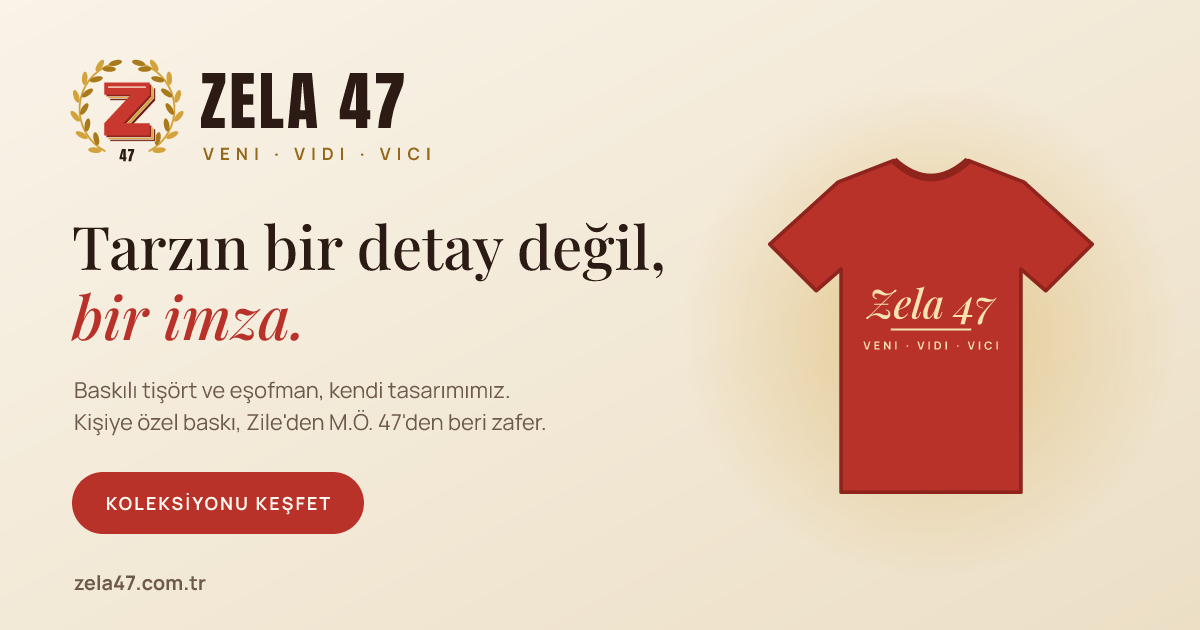
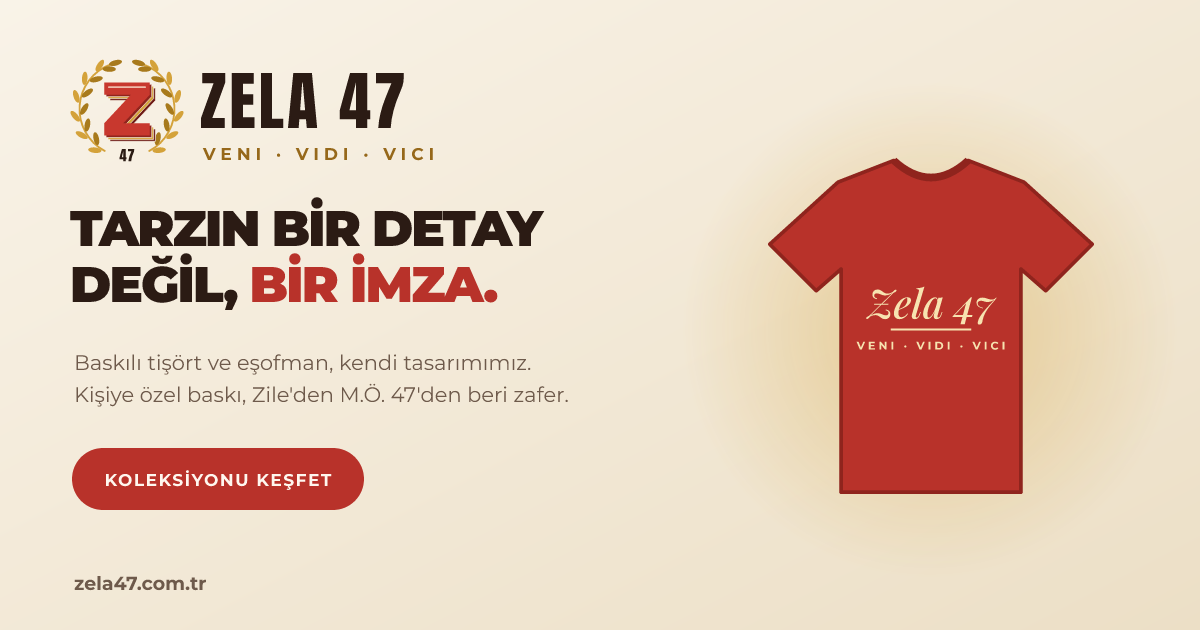
Paylaşım görselini Montserrat ile yeniden üret

diff --git a/CLAUDE.md b/CLAUDE.md
@@ -74,9 +74,9 @@ Marka adı **ZELA 47** (kullanıcı seçti; eski adı "The Expendables", film ad
 
 - Ödeme formu demodur, gerçek ödeme almaz. Gerçek ödeme için iyzico / PayTR gibi bir sağlayıcı ve sunucu gerekir.
 - KVKK, iade, mesafeli satış, kullanım koşulları ve gizlilik metinleri genel taslaktır. Yayından önce bir hukukçuya kontrol ettirilmeli.
-- Paylaşım görseli ve ikonlar Zafer Alayı paletine göre yeniden üretildi (30.10.2026). `favicon.svg` krem kare içinde çelenkli kırmızı Z; `icon-512.png` ve `apple-touch-icon.png` doğrudan ondan çizilir. Paylaşım görseli (`public/og-image.png`, 1200×630) SVG'den `@resvg/resvg-js` ile üretildi (proje dışında, geçici klasörde; yazı tipleri Google Fonts'tan TTF). İçerik: krem zemin, çelenk logo, Anton "ZELA 47", altın "VENI · VIDI · VICI", Playfair "Tarzın bir detay değil," + kırmızı italik "bir imza.", alt yazı, kırmızı "Koleksiyonu Keşfet" butonu, `zela47.com.tr`, sağda altın hale içinde kırmızı "Zela 47" baskılı tişört. Alan adı ya da logo değişirse yeniden üretilmeli.
+- Paylaşım görseli ve ikonlar Zafer Alayı paletine göre yeniden üretildi (30.10.2026). `favicon.svg` krem kare içinde çelenkli kırmızı Z; `icon-512.png` ve `apple-touch-icon.png` doğrudan ondan çizilir. Paylaşım görseli (`public/og-image.png`, 1200×630) SVG'den `@resvg/resvg-js` ile üretildi (proje dışında, geçici klasörde; yazı tipleri Google Fonts'tan TTF). İçerik: krem zemin, çelenk logo, Anton "ZELA 47", altın Montserrat "VENI · VIDI · VICI", Montserrat 900 büyük harf "TARZIN BİR DETAY / DEĞİL, BİR İMZA." ("BİR İMZA." kırmızı), Montserrat alt yazı, kırmızı "Koleksiyonu Keşfet" butonu, `zela47.com.tr`, sağda altın hale içinde kırmızı "Zela 47" baskılı tişört. Alan adı ya da logo değişirse yeniden üretilmeli.
 - Kullanıcının önceliği yayına almak değil, siteyi geliştirmek.
-- Yazı tipi 02.11.2026'da kullanıcı isteğiyle Montserrat'a geçti (önceki onaylı seçim Playfair Display + Manrope idi; önce Cormorant Garamond denendi, beğenilmedi). Paylaşım görseli hâlâ eski yazı tipleriyle (Playfair + Manrope); istenirse Montserrat ile yeniden üretilmeli.
+- Yazı tipi 02.11.2026'da kullanıcı isteğiyle Montserrat'a geçti (önceki onaylı seçim Playfair Display + Manrope idi; önce Cormorant Garamond denendi, beğenilmedi). Paylaşım görseli de 02.11.2026'da Montserrat ile yeniden üretildi.
 - Manken modelleri CC BY 4.0: ticari kullanım serbest, tek şart yazara (DNC44) atıf. Önce three.js'in "Xbot" modeli kullanılmıştı, kullanıcı beğenmedi. Ready Player Me 31 Ocak 2026'da kapandı. Başka bir model istenirse aynı kemik adlarına (Mixamo iskeleti) sahip bir .glb ile değiştirmek en kolayı
 - Hallmark tasarım eklentisi (github.com/Nutlope/hallmark, MIT, v2.0.0) projeye kuruldu: `.claude/skills/hallmark`. Yalnızca adıyla çağrılınca çalışır (`/hallmark audit <yol>`, `/hallmark redesign <yol>`). Denetim çıktıları `.hallmark/` klasörüne yazılır, GitHub'a gönderilmez. Tarayıcı kontrolü için `puppeteer-core` gerekir; projeye eklenmedi, geçici klasöre kurulup `HALLMARK_PUPPETEER` ile gösterildi. 30.10.2026'da ilk denetim yapıldı (ana sayfa, Hakkımızda, İletişim): 119 FAIL, 133 REFLEX, 17 WARN. Hallmark'ın kusur saydığı bazı şeyler (başlıkta italik renkli kelime, büyük harfli küçük etiketler) kullanıcının onayladığı marka tercihleri; bunlara kullanıcı sormadan dokunulmamalı. Kullanıcının tek tek onayladığı düzeltmeler yapıldı (119 → 49 FAIL): form kutusu kenarı `--field-edge`, klavye çerçevesi (`:focus-visible`), pasif buton görünümü, `100svh`, `overflow-x: clip`, lisans yazısı 12 px, kayan bant ve "Kaydır" üzerine gelince durur, tüm renkler `:root` değişkenlerinde (`color-mix`), `transition: all` kaldırıldı, alt sayfa üst boşluğu daraldı, ana sayfa bültenden sonra "Sıradaki imza senin." kapanış bölümüyle (`Closing`, `Sections.jsx`) bitiyor. Kalan FAIL'lerin çoğu bilinçli marka tercihi (italik vurgu, eyebrow, büyük harfli etiketler, uzun tire). `.tryon__stage` boyut geçişi (`bottom`) kasıtlı bırakıldı: 3D alanın boyu değişiyor
 - Marka adı önce "The Expendables" idi (bilinen film serisi, tescil riski). Ad arayışında önerilip beğenilmeyenler: KATKAT, Basmahane, Kalemkâr, Katmanist, Dazimon, PRINTHOOD. "ZELA 47" için TÜRKPATENT'te resmî marka araştırması ve alan adı kontrolü kullanıcıya önerildi
